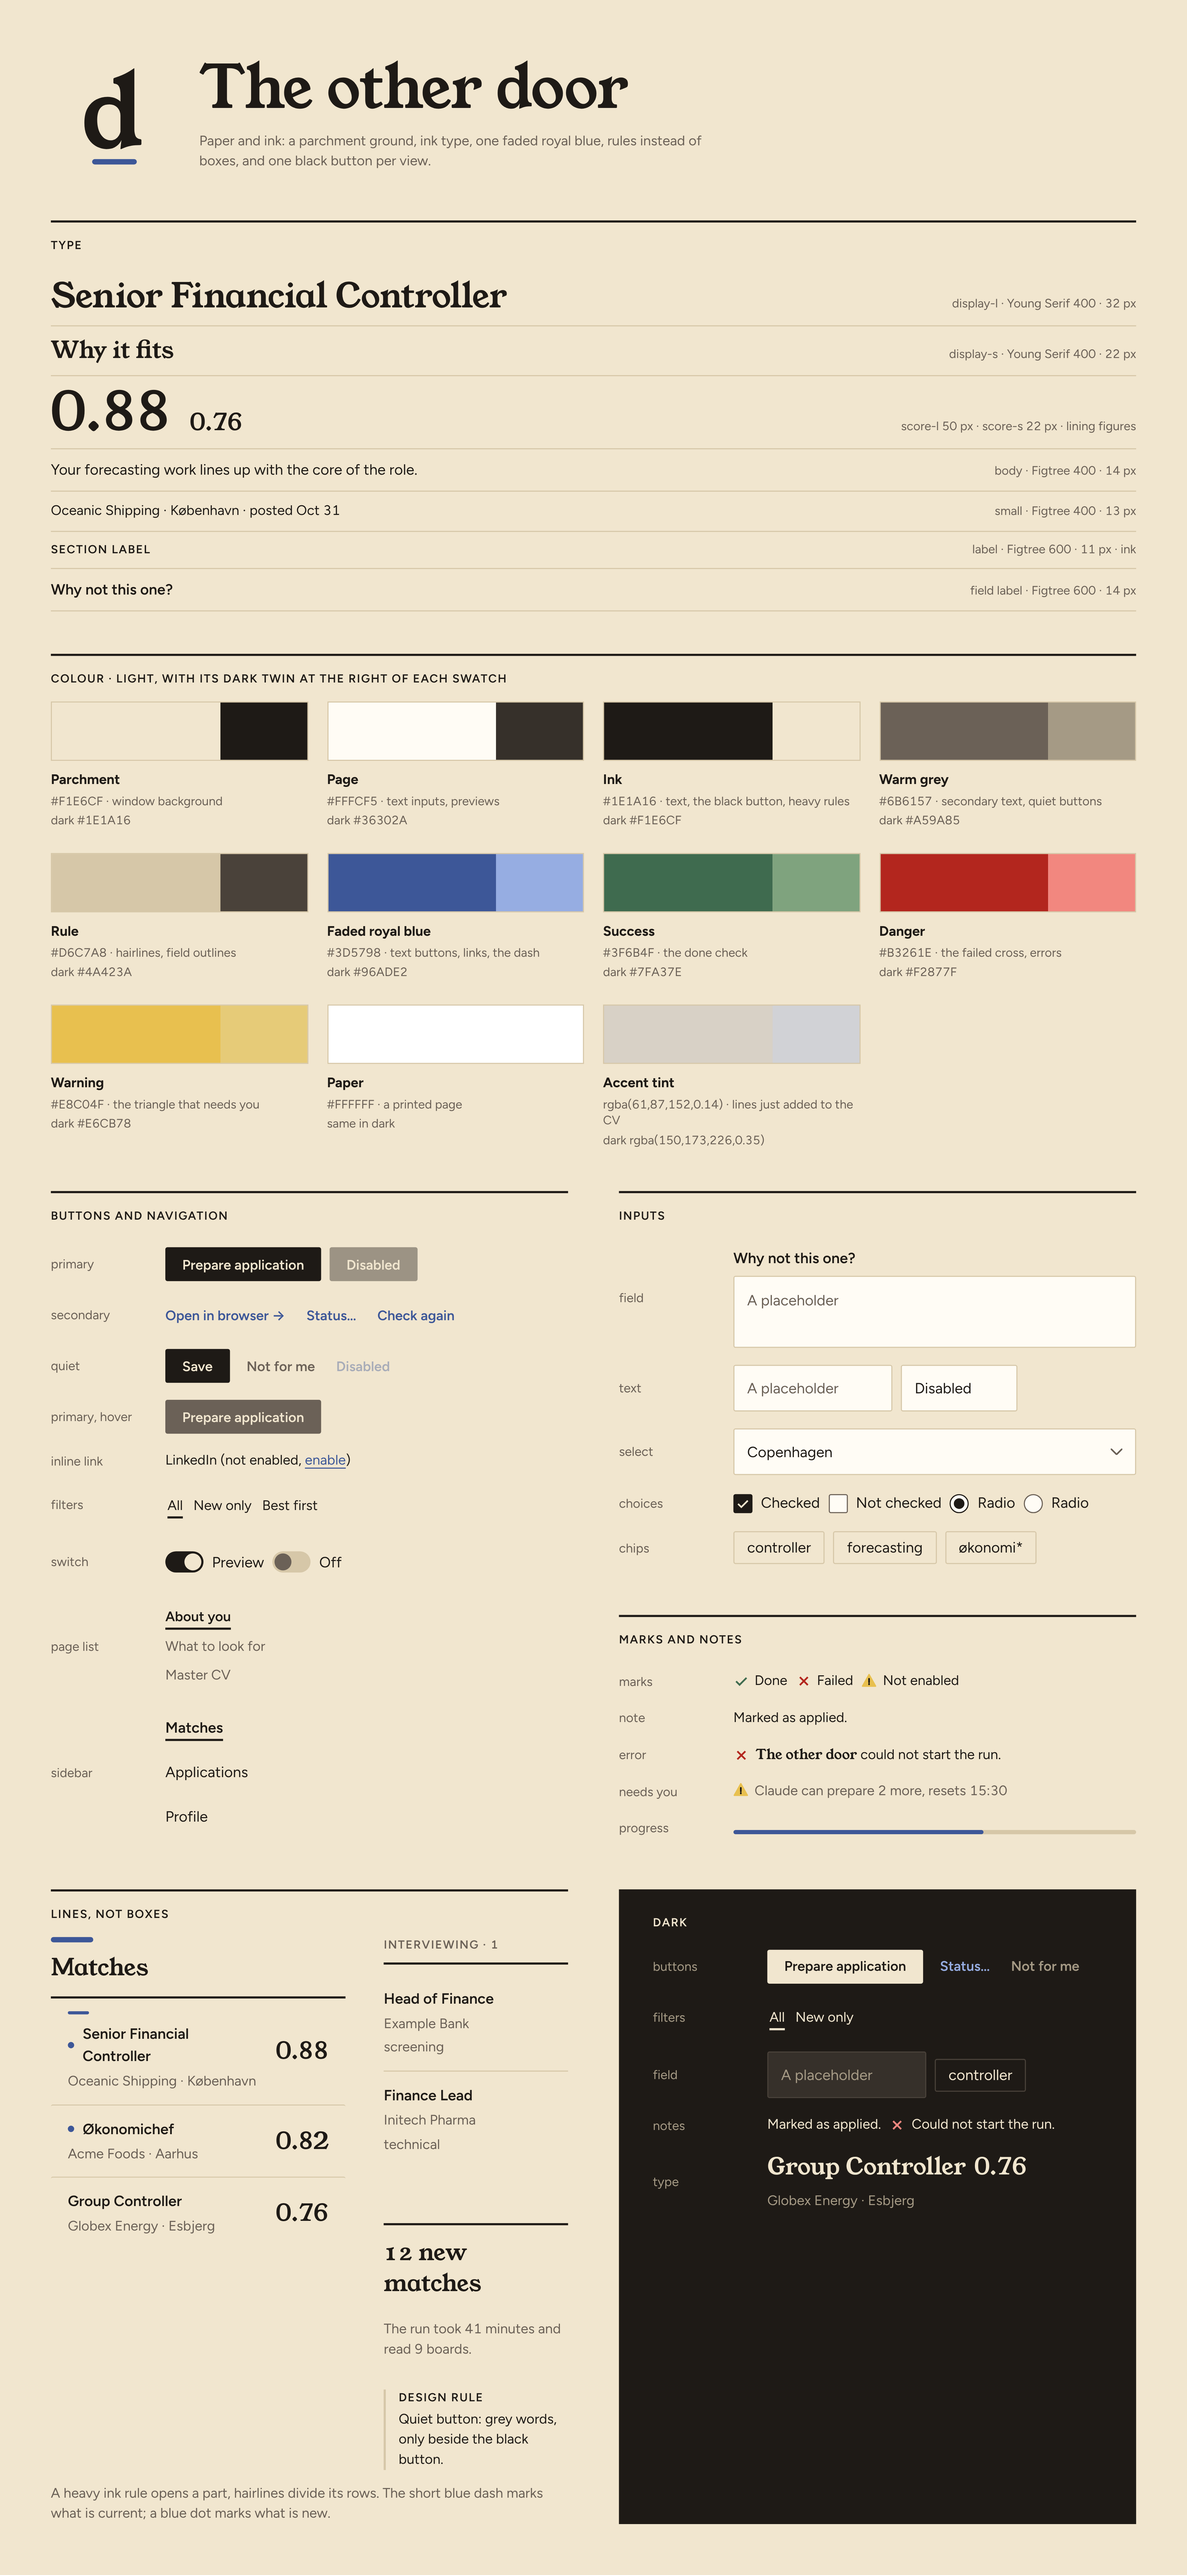
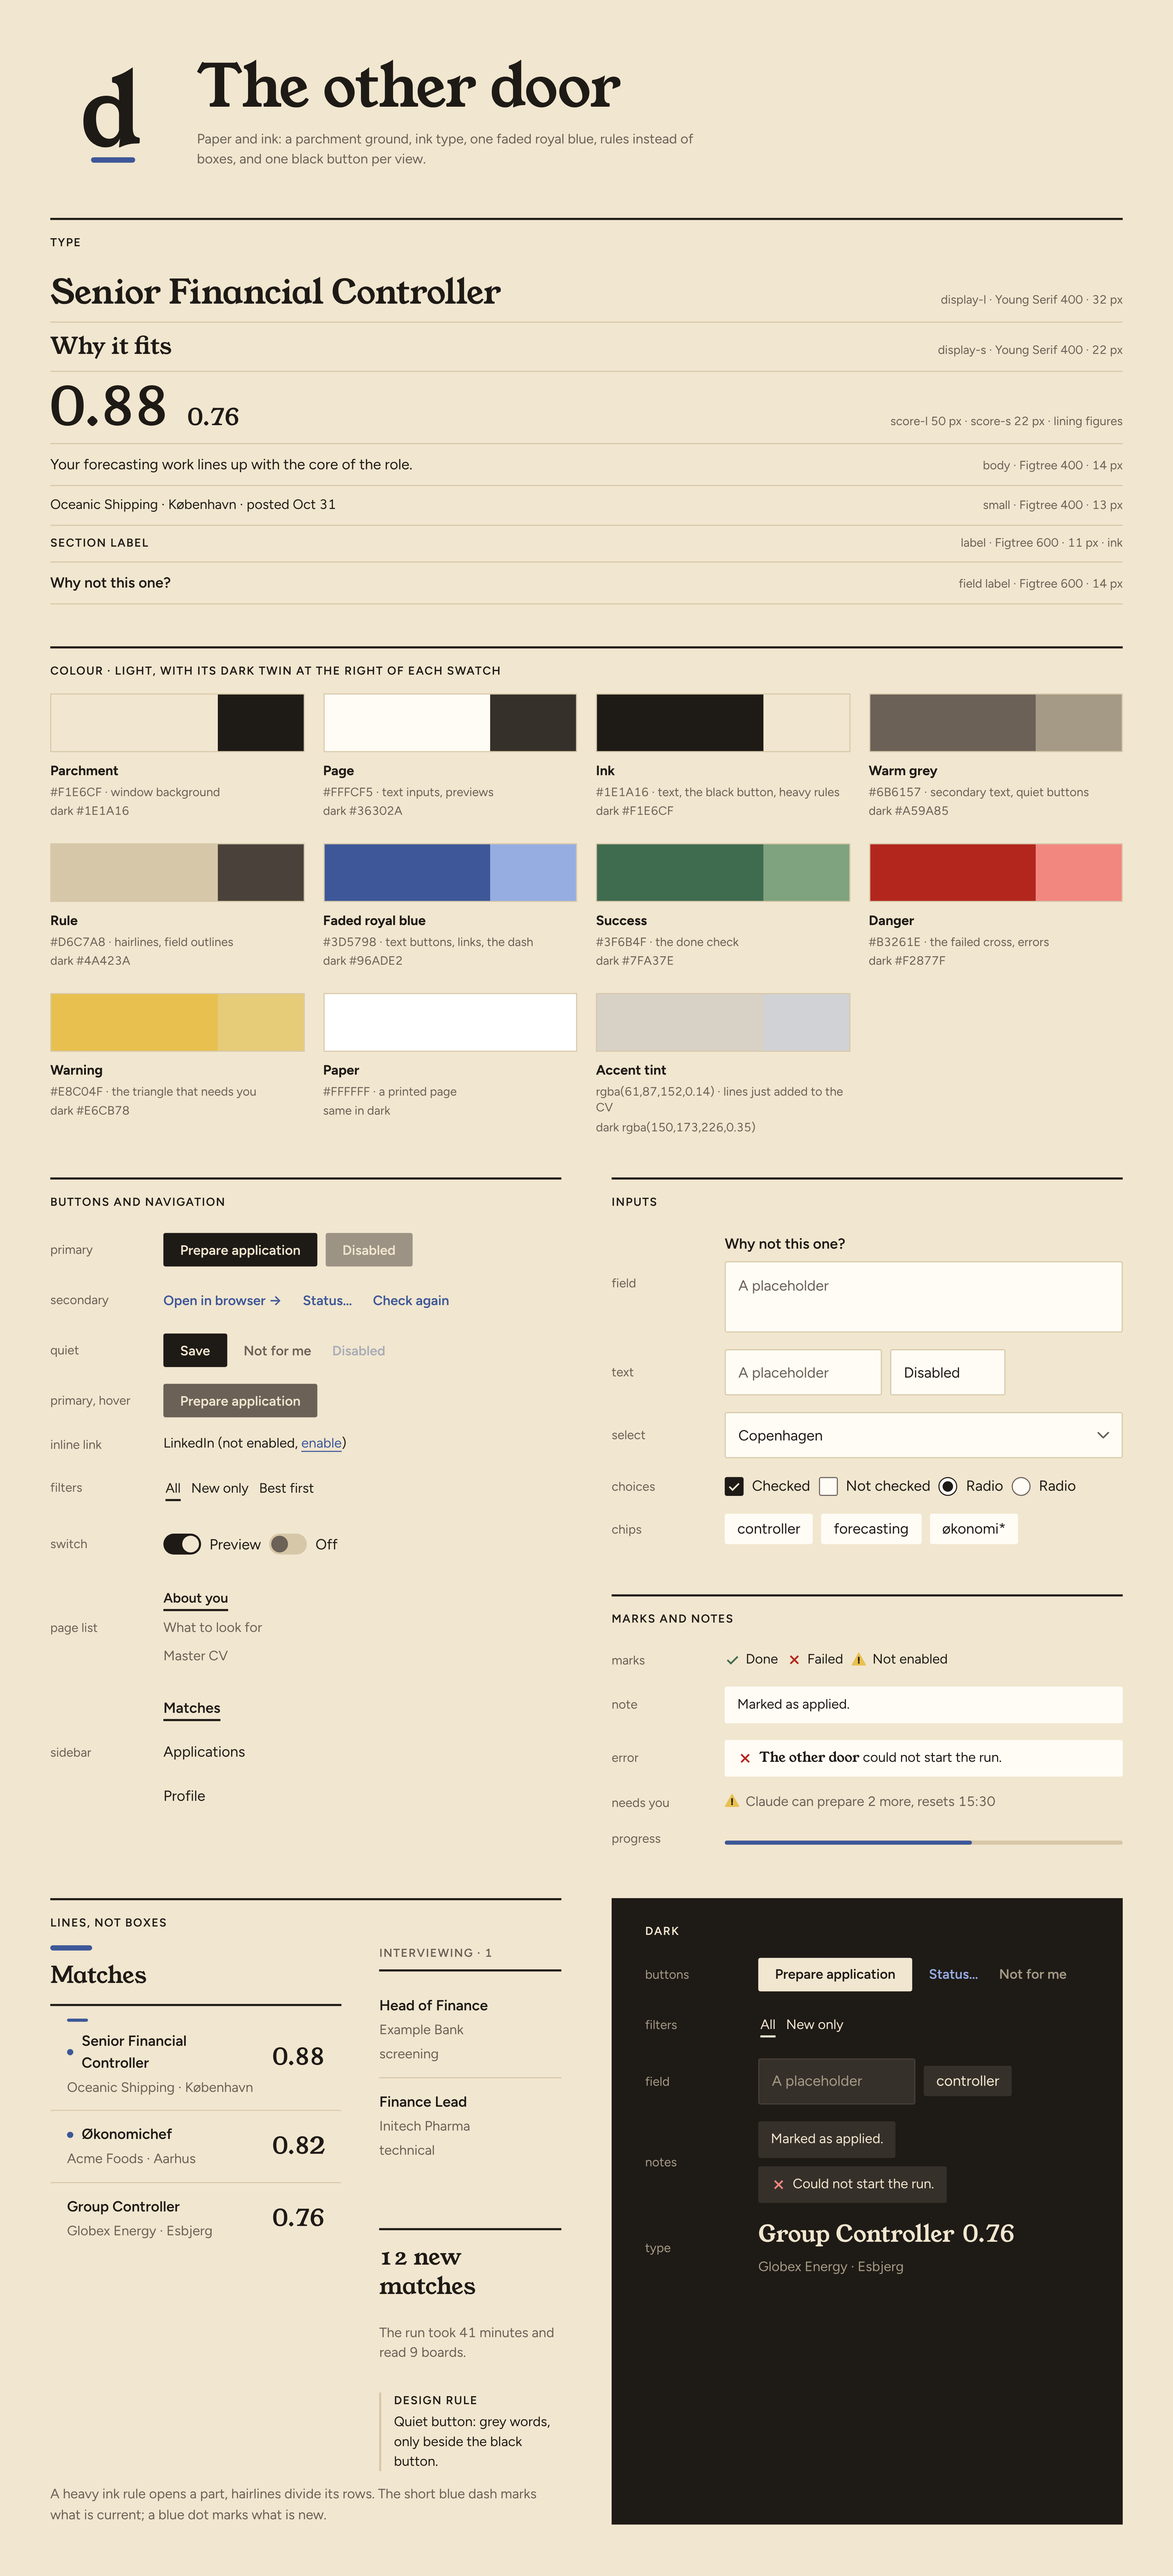
Design: chips and notes keep a fill and no outline
The owner keeps the light fill on notes, errors and chips, without an
outline, rather than the review's plain lines and outlined chips. The
fill is `page` (which `surface` folds into), 1.2:1 on the ground where
`surface` was 1.1:1.

Claude-Session: https://claude.ai/code/session_01X7AZRJmbXV9ZNnZ5yp7fGB

diff --git a/docs/design/next-style-review.md b/docs/design/next-style-review.md
@@ -23,11 +23,12 @@ the original logo, no underline on quiet buttons, the faded blue `#3D5798` as th
    the blue dash above for the open row and the screen's title. The selected row loses its fill.
 6. **Heavy rule on the column, not on every card.** The Applications board puts the heavy ink rule under the
    column's head and hairlines between its cards, as the phone layout already does.
-7. **Notes, errors and chips stay visible.** Without an outline their fill was 1.1:1 on the ground, almost
-   invisible. Notes and errors become plain lines with their mark (a note in ink, an error after the red ✕),
-   like "needs you"; chips keep a hairline outline and no fill.
+7. **Notes, errors and chips: a fill, no outline.** The review warned that without an outline the `surface`
+   fill is 1.1:1 on the ground, almost invisible, and proposed plain lines and outlined chips. The owner keeps
+   the fill and drops the outline; the fill is `page` (into which `surface` folds, change 8), 1.2:1 on the
+   ground, which reads as a shaded strip.
 8. **Fewer near-duplicates.**
-   - `surface` folds into `page` (once notes, chips and rows lose their fill, little else uses it).
+   - `surface` folds into `page` (once rows lose their fill, notes and chips are what is left, and they take `page`).
    - `paper-muted` (one use) becomes `border`; `on-warning` and `paper-ink` (1.09:1 apart) become one dark ink.
    - One corner radius, 2 px, besides the round ends of bars, the dash and the switch.
    - `score-s` (20) merges into `display-s` (22): list scores take the heading size.
